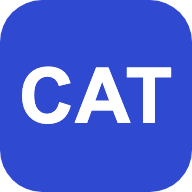
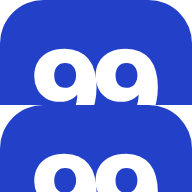
fix: give buttons and tabs colour, and fix spacing in numbers across the site and rename to 99ile

diff --git a/src/pages/tracker/Log.tsx b/src/pages/tracker/Log.tsx
@@ -55,7 +55,7 @@ export function Log({ sec }: { sec: string }) {
             <Field label="Attempted"><Input name="a" type="number" inputMode="numeric" min={1} max={200} required placeholder="8" /></Field>
             <Field label="Correct"><Input name="c" type="number" inputMode="numeric" min={0} max={200} required placeholder="6" /></Field>
             <Field label="Source" className="col-span-2"><Input name="src" placeholder="Cracku RC bank, CAT 2019 Slot 2" /></Field>
-            <div className="col-span-2 flex flex-col gap-2"><Button type="submit" className="self-start">Add set</Button><ErrorText>{pErr}</ErrorText></div>
+            <div className="col-span-2 flex flex-col gap-2"><Button type="submit" variant="secondary" className="self-start">Add set</Button><ErrorText>{pErr}</ErrorText></div>
           </form>
         </Section>
         <Section title={`Log a timed ${sec} paper or mock`}>
@@ -65,7 +65,7 @@ export function Log({ sec }: { sec: string }) {
             <Field label="Name" className="col-span-2"><Input name="n" placeholder="CAT 2017 Slot 1" /></Field>
             <Field label="Correct"><Input name="c" type="number" inputMode="numeric" min={0} max={def.maxQ} required placeholder="14" /></Field>
             <Field label="Wrong MCQ"><Input name="w" type="number" inputMode="numeric" min={0} max={def.maxQ} required placeholder="3" /></Field>
-            <div className="col-span-2 flex flex-col gap-2"><Button type="submit" className="self-start">Add result</Button><ErrorText>{mErr}</ErrorText></div>
+            <div className="col-span-2 flex flex-col gap-2"><Button type="submit" variant="secondary" className="self-start">Add result</Button><ErrorText>{mErr}</ErrorText></div>
           </form>
         </Section>
       </div>
@@ -75,8 +75,8 @@ export function Log({ sec }: { sec: string }) {
           <LogList empty="Practice sets you log from the timetable or the form above show here.">
             {practice.map((p) => (
               <LogRow key={p.id} label="Delete this set" onDelete={() => remove("practice", p.id, "Practice set")}>
-                <span className="text-base font-semibold">{p.t} <span className="font-normal text-muted-foreground">, {shortDate(p.d)}</span></span>
-                <span className="text-base tabular-nums">{p.c} of {p.a} correct, {Math.round((p.c / Math.max(p.a, 1)) * 100)}%</span>
+                <span className="text-base font-semibold">{p.t}<span className="font-normal text-muted-foreground">, {shortDate(p.d)}</span></span>
+                <span className="text-base">{p.c} of {p.a} correct, {Math.round((p.c / Math.max(p.a, 1)) * 100)}%</span>
                 {p.src && <Meta>{p.src}</Meta>}
               </LogRow>
             ))}
@@ -87,7 +87,7 @@ export function Log({ sec }: { sec: string }) {
             {[...mocksAsc].reverse().map((x) => (
               <LogRow key={x.id} label={"Delete result from " + shortDate(x.d)} onDelete={() => remove("mocks", x.id, "Result")}>
                 <span className="flex flex-wrap items-center gap-2 text-base font-semibold">{x.n || x.k}<Badge variant="secondary">{x.k}</Badge></span>
-                <span className="text-base tabular-nums">{x.c} correct, {x.w} wrong, raw score {3 * x.c - x.w}</span>
+                <span className="text-base">{x.c} correct, {x.w} wrong, raw score {3 * x.c - x.w}</span>
                 <Meta>{shortDate(x.d)}</Meta>
               </LogRow>
             ))}

diff --git a/src/components/ui/tabs.tsx b/src/components/ui/tabs.tsx
@@ -23,7 +23,7 @@ function Tabs({
 }
 
 const tabsListVariants = cva(
-  "group/tabs-list inline-flex w-fit items-center justify-center rounded-lg p-[3px] text-muted-foreground group-data-[orientation=horizontal]/tabs:h-11 group-data-[orientation=vertical]/tabs:h-fit group-data-[orientation=vertical]/tabs:flex-col data-[variant=line]:rounded-none",
+  "group/tabs-list inline-flex w-fit items-center justify-center rounded-lg p-[3px] text-muted-foreground group-data-[orientation=horizontal]/tabs:min-h-11 group-data-[orientation=vertical]/tabs:h-fit group-data-[orientation=vertical]/tabs:flex-col data-[variant=line]:rounded-none",
   {
     variants: {
       variant: {
@@ -61,9 +61,9 @@ function TabsTrigger({
     <TabsPrimitive.Trigger
       data-slot="tabs-trigger"
       className={cn(
-        "relative inline-flex h-[calc(100%-1px)] flex-1 items-center justify-center gap-1.5 rounded-md border border-transparent px-3 py-1 text-base font-medium whitespace-nowrap text-foreground/60 transition-colors group-data-[orientation=vertical]/tabs:w-full group-data-[orientation=vertical]/tabs:justify-start hover:text-foreground focus-visible:border-ring focus-visible:ring-[3px] focus-visible:ring-ring/50 focus-visible:outline-1 focus-visible:outline-ring disabled:pointer-events-none disabled:opacity-50 group-data-[variant=line]/tabs-list:data-[state=active]:shadow-none dark:text-muted-foreground dark:hover:text-foreground [&_svg]:pointer-events-none [&_svg]:shrink-0 [&_svg:not([class*='size-'])]:size-4",
+        "relative inline-flex h-[calc(100%-1px)] flex-1 items-center justify-center gap-1.5 rounded-md border border-transparent px-3 py-1 text-base font-medium whitespace-nowrap text-foreground/60 transition-colors group-data-[orientation=vertical]/tabs:w-full group-data-[orientation=vertical]/tabs:justify-start hover:text-foreground focus-visible:outline-none focus-visible:ring-2 focus-visible:ring-ring disabled:pointer-events-none disabled:opacity-50 group-data-[variant=line]/tabs-list:data-[state=active]:shadow-none dark:text-muted-foreground dark:hover:text-foreground [&_svg]:pointer-events-none [&_svg]:shrink-0 [&_svg:not([class*='size-'])]:size-4",
         "group-data-[variant=line]/tabs-list:bg-transparent group-data-[variant=line]/tabs-list:data-[state=active]:bg-transparent dark:group-data-[variant=line]/tabs-list:data-[state=active]:border-transparent dark:group-data-[variant=line]/tabs-list:data-[state=active]:bg-transparent",
-        "data-[state=active]:bg-card data-[state=active]:text-foreground dark:data-[state=active]:border-input dark:data-[state=active]:bg-input/30 dark:data-[state=active]:text-foreground",
+        "data-[state=active]:bg-card data-[state=active]:font-semibold data-[state=active]:text-primary data-[state=active]:ring-1 data-[state=active]:ring-inset data-[state=active]:ring-primary/40 dark:data-[state=active]:text-primary",
         "after:absolute after:bg-foreground after:opacity-0 after:transition-opacity group-data-[orientation=horizontal]/tabs:after:inset-x-0 group-data-[orientation=horizontal]/tabs:after:bottom-[-5px] group-data-[orientation=horizontal]/tabs:after:h-0.5 group-data-[orientation=vertical]/tabs:after:inset-y-0 group-data-[orientation=vertical]/tabs:after:-right-1 group-data-[orientation=vertical]/tabs:after:w-0.5 group-data-[variant=line]/tabs-list:data-[state=active]:after:opacity-100",
         className
       )}

diff --git a/src/pages/practice/common.tsx b/src/pages/practice/common.tsx
@@ -7,6 +7,7 @@ import { cn } from "@/lib/utils";
 import { reportUrl } from "../../data/site";
 import { todayIso } from "../../lib/date";
 import { fmtSecs } from "../../practice/record";
+import { Tnum } from "../../components/kit";
 import { useStore } from "../../lib/store";
 import { activityDays, computeStreak } from "../../practice/streak";
 
@@ -48,7 +49,7 @@ export function useElapsed(running: boolean, startAt: number) {
 /** The practice clock. It ticks on its own, so the passage and the questions do not redraw every second. */
 export function ElapsedTimer({ startAt, target, onClick, title }: { startAt: number; target: number; onClick?: () => void; title?: string }) {
   const secs = useElapsed(true, startAt);
-  return <Timer over={secs > target} onClick={onClick} title={title}>{fmtSecs(secs)} / {fmtSecs(target)}</Timer>;
+  return <Timer over={secs > target} onClick={onClick} title={title}><Tnum>{`${fmtSecs(secs)} / ${fmtSecs(target)}`}</Tnum></Timer>;
 }
 
 /** "Report a problem" for one question. Opens a prefilled GitHub issue in a new tab. */
@@ -75,7 +76,7 @@ export function PlayerBar({ kicker, title, children }: { kicker: ReactNode; titl
 
 /** The clock in a practice bar. Turns red when the target time is passed. */
 export function Timer({ children, over, onClick, title }: { children: ReactNode; over?: boolean; onClick?: () => void; title?: string }) {
-  const cls = cn("inline-flex h-9 items-center rounded-md bg-card px-3 text-base font-semibold tabular-nums", over && "bg-danger-soft text-danger");
+  const cls = cn("inline-flex h-9 items-center rounded-md bg-card px-3 text-base font-semibold", over && "bg-danger-soft text-danger");
   return onClick ? <button type="button" className={cls} onClick={onClick} title={title}>{children}</button> : <span className={cls} role="timer">{children}</span>;
 }
 
@@ -163,7 +164,7 @@ export function ScoreCard({ score, of, unit, parts, children }: { score: ReactNo
           {unit && <span className="text-heading text-muted-foreground">{unit}</span>}
         </p>
         <dl className="flex flex-wrap gap-x-8 gap-y-2">
-          {parts.map(([k, v]) => <div key={k} className="flex flex-col"><dt className="text-sm text-muted-foreground">{k}</dt><dd className="text-heading font-semibold tabular-nums">{v}</dd></div>)}
+          {parts.map(([k, v]) => <div key={k} className="flex flex-col"><dt className="text-sm text-muted-foreground">{k}</dt><dd className="text-heading font-semibold">{typeof v === "string" || typeof v === "number" ? <Tnum>{String(v)}</Tnum> : v}</dd></div>)}
         </dl>
       </div>
       {children}

diff --git a/src/pages/Progress.tsx b/src/pages/Progress.tsx
@@ -9,6 +9,7 @@ import { Mocks } from "./tracker/Mocks";
 import { Report } from "./tracker/Report";
 
 type Tab = "report" | "mocks" | "log";
+const TAB = "h-auto min-h-10 flex-auto whitespace-normal px-2.5 leading-tight sm:px-3.5";
 
 export default function Progress() {
   const { state } = useStore();
@@ -26,7 +27,7 @@ export default function Progress() {
 
       <div className="-mt-4 flex flex-col gap-6">
         <Segmented label="Section" value={sec} onChange={setSec} options={SECTIONS.map((s) => s.short)} />
-        <div className="flex flex-wrap gap-x-12 gap-y-4 rounded-lg bg-card p-5 sm:p-6">
+        <div className="grid grid-cols-2 gap-x-4 gap-y-4 rounded-lg bg-card p-5 sm:grid-cols-4 sm:gap-x-8 sm:gap-y-0 sm:p-6">
           <Stat value={totA} label="Questions done" />
           <Stat value={totA ? Math.round((totC / totA) * 100) + "%" : "None yet"} label="Accuracy" />
           <Stat value={papers} label="Papers and mocks" />
@@ -35,13 +36,12 @@ export default function Progress() {
       </div>
 
       <Tabs value={tab} onValueChange={(v) => setTab(v as Tab)} className="gap-8">
-        <div className="bleed-gutter overflow-x-auto px-gutter sm:mx-0 sm:px-0">
-          <TabsList className="bg-secondary">
-            <TabsTrigger value="report" className="px-3.5">Report card</TabsTrigger>
-            <TabsTrigger value="mocks" className="px-3.5">Mocks and target</TabsTrigger>
-            <TabsTrigger value="log" className="px-3.5">Log</TabsTrigger>
-          </TabsList>
-        </div>
+        {/* Full width on a phone, each tab as wide as its label; a label wraps only on the narrowest screens. */}
+        <TabsList className="flex w-full bg-secondary sm:w-fit">
+          <TabsTrigger value="report" className={TAB}>Report card</TabsTrigger>
+          <TabsTrigger value="mocks" className={TAB}>Mocks and target</TabsTrigger>
+          <TabsTrigger value="log" className={TAB}>Log</TabsTrigger>
+        </TabsList>
         <TabsContent value="report"><Report sec={def.short} /></TabsContent>
         <TabsContent value="mocks"><Mocks sec={def.short} /></TabsContent>
         <TabsContent value="log"><Log sec={def.short} /></TabsContent>

diff --git a/src/pages/Settings.tsx b/src/pages/Settings.tsx
@@ -26,7 +26,7 @@ export default function Settings() {
     const blob = new Blob([JSON.stringify(state, null, 2)], { type: "application/json" });
     const a = document.createElement("a");
     a.href = URL.createObjectURL(blob);
-    a.download = "cat-prep-backup-" + todayIso() + ".json";
+    a.download = "99ile-backup-" + todayIso() + ".json";
     a.click();
     setTimeout(() => URL.revokeObjectURL(a.href), 1000);
   };
@@ -37,7 +37,7 @@ export default function Settings() {
       pending.current = raw;
       setAsk("restore");
     } catch {
-      setMsg({ ok: false, text: "That file is not a CAT Prep Hub backup." });
+      setMsg({ ok: false, text: "That file is not a 99ile backup." });
     }
   };
   const counts = [
@@ -96,7 +96,7 @@ function InstallCard() {
   return (
     <Section title="Install as an app" description="The installed app opens from your home screen like any other app. After your first visit the site also works without internet, because your plan and logs are stored on this device.">
       {installed ? <p className="text-base text-success">You are using the installed app.</p>
-        : canPrompt ? <div><Button onClick={prompt}>Install CAT Prep Hub</Button></div>
+        : canPrompt ? <div><Button onClick={prompt}>Install 99ile</Button></div>
         : ios ? <p className="measure text-base">On iPhone or iPad: open this site in Safari, tap the Share button, then <b className="font-semibold">Add to Home Screen</b>.</p>
         : <p className="measure text-base">In Chrome or Edge, use the install icon at the right of the address bar, or the browser menu and then <b className="font-semibold">Install</b>. On Android, open the menu and tap <b className="font-semibold">Add to Home screen</b>.</p>}
     </Section>
@@ -111,7 +111,7 @@ function ReminderCard() {
     const blob = new Blob([reminderIcs(r)], { type: "text/calendar" });
     const a = document.createElement("a");
     a.href = URL.createObjectURL(blob);
-    a.download = "cat-prep-reminder.ics";
+    a.download = "99ile-reminder.ics";
     a.click();
     setTimeout(() => URL.revokeObjectURL(a.href), 1000);
   };

diff --git a/src/pages/tracker/Target.tsx b/src/pages/tracker/Target.tsx
@@ -63,7 +63,7 @@ export function Estimator({ last }: { last?: { c: number; w: number } }) {
         <div className="grid grid-cols-2 items-end gap-4 sm:grid-cols-[8rem_8rem_auto]">
           <Field label="Right"><Input value={c} onChange={(e) => setC(e.target.value)} inputMode="numeric" placeholder="14" /></Field>
           <Field label="Wrong MCQ"><Input value={w} onChange={(e) => setW(e.target.value)} inputMode="numeric" placeholder="3" /></Field>
-          <Button type="submit" variant="secondary" className="col-span-2 sm:col-span-1 sm:justify-self-start">Find my percentile</Button>
+          <Button type="submit" className="col-span-2 sm:col-span-1 sm:justify-self-start">Find my percentile</Button>
         </div>
         <ErrorText>{err}</ErrorText>
         {est && score !== null && shown && (
@@ -95,7 +95,7 @@ export function Estimator({ last }: { last?: { c: number; w: number } }) {
                   <th scope="row" className="px-2 py-2.5 text-left font-semibold whitespace-nowrap sm:px-3">{row[0].attempted}<span className="max-sm:sr-only"> of {VARC_QS}</span></th>
                   {row.map((cell) => (
                     <td key={cell.accuracy} className="p-px sm:p-1">
-                      <div className={cn("flex flex-col rounded-md px-0 py-1.5 tabular-nums sm:px-1", cell.score >= goal && "bg-success-soft text-success")}>
+                      <div className={cn("flex flex-col rounded-md px-0 py-1.5 sm:px-1", cell.score >= goal && "bg-success-soft text-success")}>
                         <span className="font-semibold">{cell.est.below ? "under " + pctText(cell.est.high) : pctText(cell.est.low)}</span>
                         <span className={cn("text-sm", cell.score >= goal ? "text-success" : "text-muted-foreground")}>{cell.score}<span className="max-sm:sr-only"> marks</span></span>
                       </div>

diff --git a/src/components/kit.tsx b/src/components/kit.tsx
@@ -56,10 +56,19 @@ export function Empty({ children, action }: { children: ReactNode; action?: Reac
 }
 
 /** A number with its label underneath, for scores and counts. */
+/**
+ * Digits at equal widths, so a ticking clock or a column of numbers does not jiggle.
+ * Use this instead of the tabular-nums class on text with punctuation: Schibsted Grotesk's
+ * tabular figures also make , . and : as wide as a digit, which reads as "13 .0" or "0 :02".
+ */
+export function Tnum({ children }: { children: string }) {
+  return <>{children.split(/(\d+)/).map((part, i) => (i % 2 ? <span key={i} className="tabular-nums">{part}</span> : part))}</>;
+}
+
 export function Stat({ value, label, className }: { value: ReactNode; label: ReactNode; className?: string }) {
   return (
     <div className={cn("flex flex-col", className)}>
-      <span className="text-heading font-semibold tabular-nums">{value}</span>
+      <span className="text-heading font-semibold">{value}</span>
       <span className="text-sm text-muted-foreground">{label}</span>
     </div>
   );
@@ -124,7 +133,7 @@ export function Segmented<T extends string>({ value, onChange, options, label, c
         const [v, l] = Array.isArray(o) ? o : [o, o];
         return (
           <button key={v} type="button" aria-pressed={value === v} onClick={() => onChange(v)}
-            className={cn("h-9 rounded-md px-3.5 text-base text-muted-foreground transition-colors hover:text-foreground", value === v && "bg-card font-semibold text-foreground")}>
+            className={cn("h-9 rounded-md px-3.5 text-base text-muted-foreground transition-colors hover:text-foreground", value === v && "bg-card font-semibold text-primary ring-1 ring-inset ring-primary/40")}>
             {l}
           </button>
         );

diff --git a/index.html b/index.html
@@ -3,18 +3,18 @@
   <head>
     <meta charset="UTF-8" />
     <meta name="viewport" content="width=device-width, initial-scale=1, viewport-fit=cover" />
-    <meta name="description" content="Free CAT preparation hub: a personal timetable that adapts to the time you have, curated VARC resources, past papers, mocks, topper stories, exam updates and guidance." />
+    <meta name="description" content="99ile: free CAT preparation with a personal timetable that adapts to the time you have, curated VARC resources, past papers, mocks, topper stories, exam updates and guidance." />
     <meta name="theme-color" content="#eef0f4" media="(prefers-color-scheme: light)" />
     <meta name="theme-color" content="#12161e" media="(prefers-color-scheme: dark)" />
     <link rel="icon" href="/favicon.svg" type="image/svg+xml" />
     <link rel="manifest" href="/manifest.webmanifest" />
     <link rel="apple-touch-icon" href="/apple-touch-icon.png" />
-    <meta name="apple-mobile-web-app-capable" content="yes" />
-    <meta name="apple-mobile-web-app-title" content="CAT Prep" />
+    <meta name="mobile-web-app-capable" content="yes" />
+    <meta name="apple-mobile-web-app-title" content="99ile" />
     <link rel="preconnect" href="https://fonts.googleapis.com" />
     <link rel="preconnect" href="https://fonts.gstatic.com" crossorigin />
     <link rel="stylesheet" href="https://fonts.googleapis.com/css2?family=Schibsted+Grotesk:wght@400;500;600;700&family=Source+Serif+4:ital,opsz,wght@0,8..60,400;0,8..60,600;1,8..60,400&display=swap" />
-    <title>CAT Prep Hub</title>
+    <title>99ile: free CAT prep</title>
   </head>
   <body>
     <div id="root"></div>

diff --git a/src/pages/tracker/Report.tsx b/src/pages/tracker/Report.tsx
@@ -24,7 +24,7 @@ function AccuracyList({ title, rows, empty }: { title: string; rows: Row[]; empt
               <li key={r.key} className="grid grid-cols-[minmax(0,8.5rem)_minmax(0,1fr)_4.25rem] items-center gap-3 text-base sm:grid-cols-[minmax(0,10.5rem)_minmax(0,1fr)_4.5rem]">
                 <span className="leading-snug">{r.label}</span>
                 <span className="h-2.5 overflow-hidden rounded-full bg-secondary"><span className={cn("block h-full rounded-full", pct !== null && pct < 60 ? "bg-danger" : "bg-primary")} style={{ width: (pct ?? 0) + "%" }} /></span>
-                <span className="text-right leading-tight tabular-nums">
+                <span className="text-right leading-tight">
                   {pct === null ? <span className="text-sm text-muted-foreground">None yet</span> : <><b className="font-semibold">{pct}%</b><span className="block text-sm text-muted-foreground">{r.attempted} Qs</span></>}
                 </span>
               </li>
@@ -80,7 +80,7 @@ export function Report({ sec }: { sec: string }) {
           ) : attempted >= MIN_TOTAL ? (
             <Empty>Nothing stands out. Every type, genre and trap is within a few points of the rest, so keep the mix going.</Empty>
           ) : (
-            <Empty action={<LinkButton to="/practice" variant="secondary">Go to Practice</LinkButton>}>
+            <Empty action={<LinkButton to="/practice">Go to Practice</LinkButton>}>
               The report card needs about {MIN_TOTAL} questions before it can say what to work on. You have done {attempted}. The daily RC and VA drill make about 12.
             </Empty>
           )}

diff --git a/src/App.tsx b/src/App.tsx
@@ -35,7 +35,7 @@ const Updates = lazy(() => import("./pages/Updates"));
 const Words = lazy(() => import("./pages/Words"));
 
 const TITLES: Record<string, string> = {
-  "/": "CAT Prep Hub", "/today": "Today", "/plan": "Plan and time", "/practice": "Practice", "/practice/library": "RC library", "/practice/sectional": "VARC sectional", "/practice/va": "VA drill", "/practice/cr": "Critical reasoning drill", "/practice/speed": "Reading speed test", "/practice/redo": "Redo queue", "/varc": "VARC", "/dilr": "DILR", "/quant": "Quant",
+  "/": "99ile: free CAT prep", "/today": "Today", "/plan": "Plan and time", "/practice": "Practice", "/practice/library": "RC library", "/practice/sectional": "VARC sectional", "/practice/va": "VA drill", "/practice/cr": "Critical reasoning drill", "/practice/speed": "Reading speed test", "/practice/redo": "Redo queue", "/varc": "VARC", "/dilr": "DILR", "/quant": "Quant",
   "/progress": "Progress", "/errors": "Error log", "/words": "Words", "/updates": "Important updates", "/exams": "CAT and other exams",
   "/guides": "Guides", "/stories": "Topper stories", "/roadmap": "What's coming", "/settings": "Settings",
 };
@@ -44,7 +44,7 @@ function Title() {
   const { pathname } = useLocation();
   useEffect(() => {
     const t = TITLES[pathname] ?? (pathname.startsWith("/guides/") ? "Guide" : pathname.startsWith("/practice/rc/") ? "RC practice" : "");
-    document.title = t && pathname !== "/" ? t + " · CAT Prep Hub" : "CAT Prep Hub";
+    document.title = t && pathname !== "/" ? t + " · 99ile" : TITLES["/"];
   }, [pathname]);
   return null;
 }

diff --git a/src/components/FocusBar.tsx b/src/components/FocusBar.tsx
@@ -5,6 +5,7 @@ import { Button } from "@/components/ui/button";
 import { cn } from "@/lib/utils";
 import { BREAK_EVERY, focusMs, useFocus } from "../lib/focus";
 import { fmtSecs } from "../practice/record";
+import { Tnum } from "./kit";
 
 const BAR = "fixed inset-x-0 bottom-[calc(4rem+env(safe-area-inset-bottom))] z-40 flex flex-wrap items-center justify-between gap-x-4 gap-y-2 bg-foreground px-gutter py-3 text-background lg:px-4 shadow-xl lg:inset-x-auto lg:right-6 lg:bottom-6 lg:w-[min(560px,calc(100vw-248px-48px))] lg:rounded-lg"; // taste-skill-ignore: the timer bar floats over the page
 
@@ -32,7 +33,7 @@ export default function FocusBar() {
           <span className="text-sm text-background/70">{run.since ? "Focus" : "Paused"}</span>
           <Link to="/today" className="truncate text-base font-semibold text-background">{run.name}</Link>
         </div>
-        <span className={cn("text-base font-semibold tabular-nums", over && "text-highlight")} aria-live="off">{fmtSecs(secs)} / {run.target}:00</span>
+        <span className={cn("text-base font-semibold", over && "text-highlight")} aria-live="off"><Tnum>{`${fmtSecs(secs)} / ${run.target}:00`}</Tnum></span>
       </div>
       {breakDue ? (
         <div className="flex flex-wrap items-center gap-2">

diff --git a/src/components/ui/button.tsx b/src/components/ui/button.tsx
@@ -3,14 +3,14 @@ import { cva, type VariantProps } from "class-variance-authority"
 import { cn } from "@/lib/utils"
 import { Slot } from "radix-ui"
 
-/** One filled action per screen (default). The rest are secondary, ghost or link. */
+/** One filled action per screen (default). The rest are secondary (a tint of the brand blue), ghost or link. */
 const buttonVariants = cva(
   "inline-flex shrink-0 items-center justify-center gap-2 rounded-md font-semibold whitespace-nowrap transition-[background-color,color,transform] duration-150 outline-none select-none active:translate-y-px focus-visible:ring-[3px] focus-visible:ring-ring/40 disabled:pointer-events-none disabled:opacity-50 [&_svg]:pointer-events-none [&_svg]:shrink-0 [&_svg:not([class*='size-'])]:size-4",
   {
     variants: {
       variant: {
         default: "bg-primary text-primary-foreground hover:bg-primary/90",
-        secondary: "bg-secondary text-secondary-foreground hover:bg-secondary/70",
+        secondary: "bg-accent text-accent-foreground hover:bg-primary/15",
         outline: "bg-card text-foreground ring-1 ring-inset ring-input hover:bg-muted",
         ghost: "text-foreground hover:bg-secondary",
         destructive: "bg-danger-soft text-danger hover:bg-danger-soft/70",
